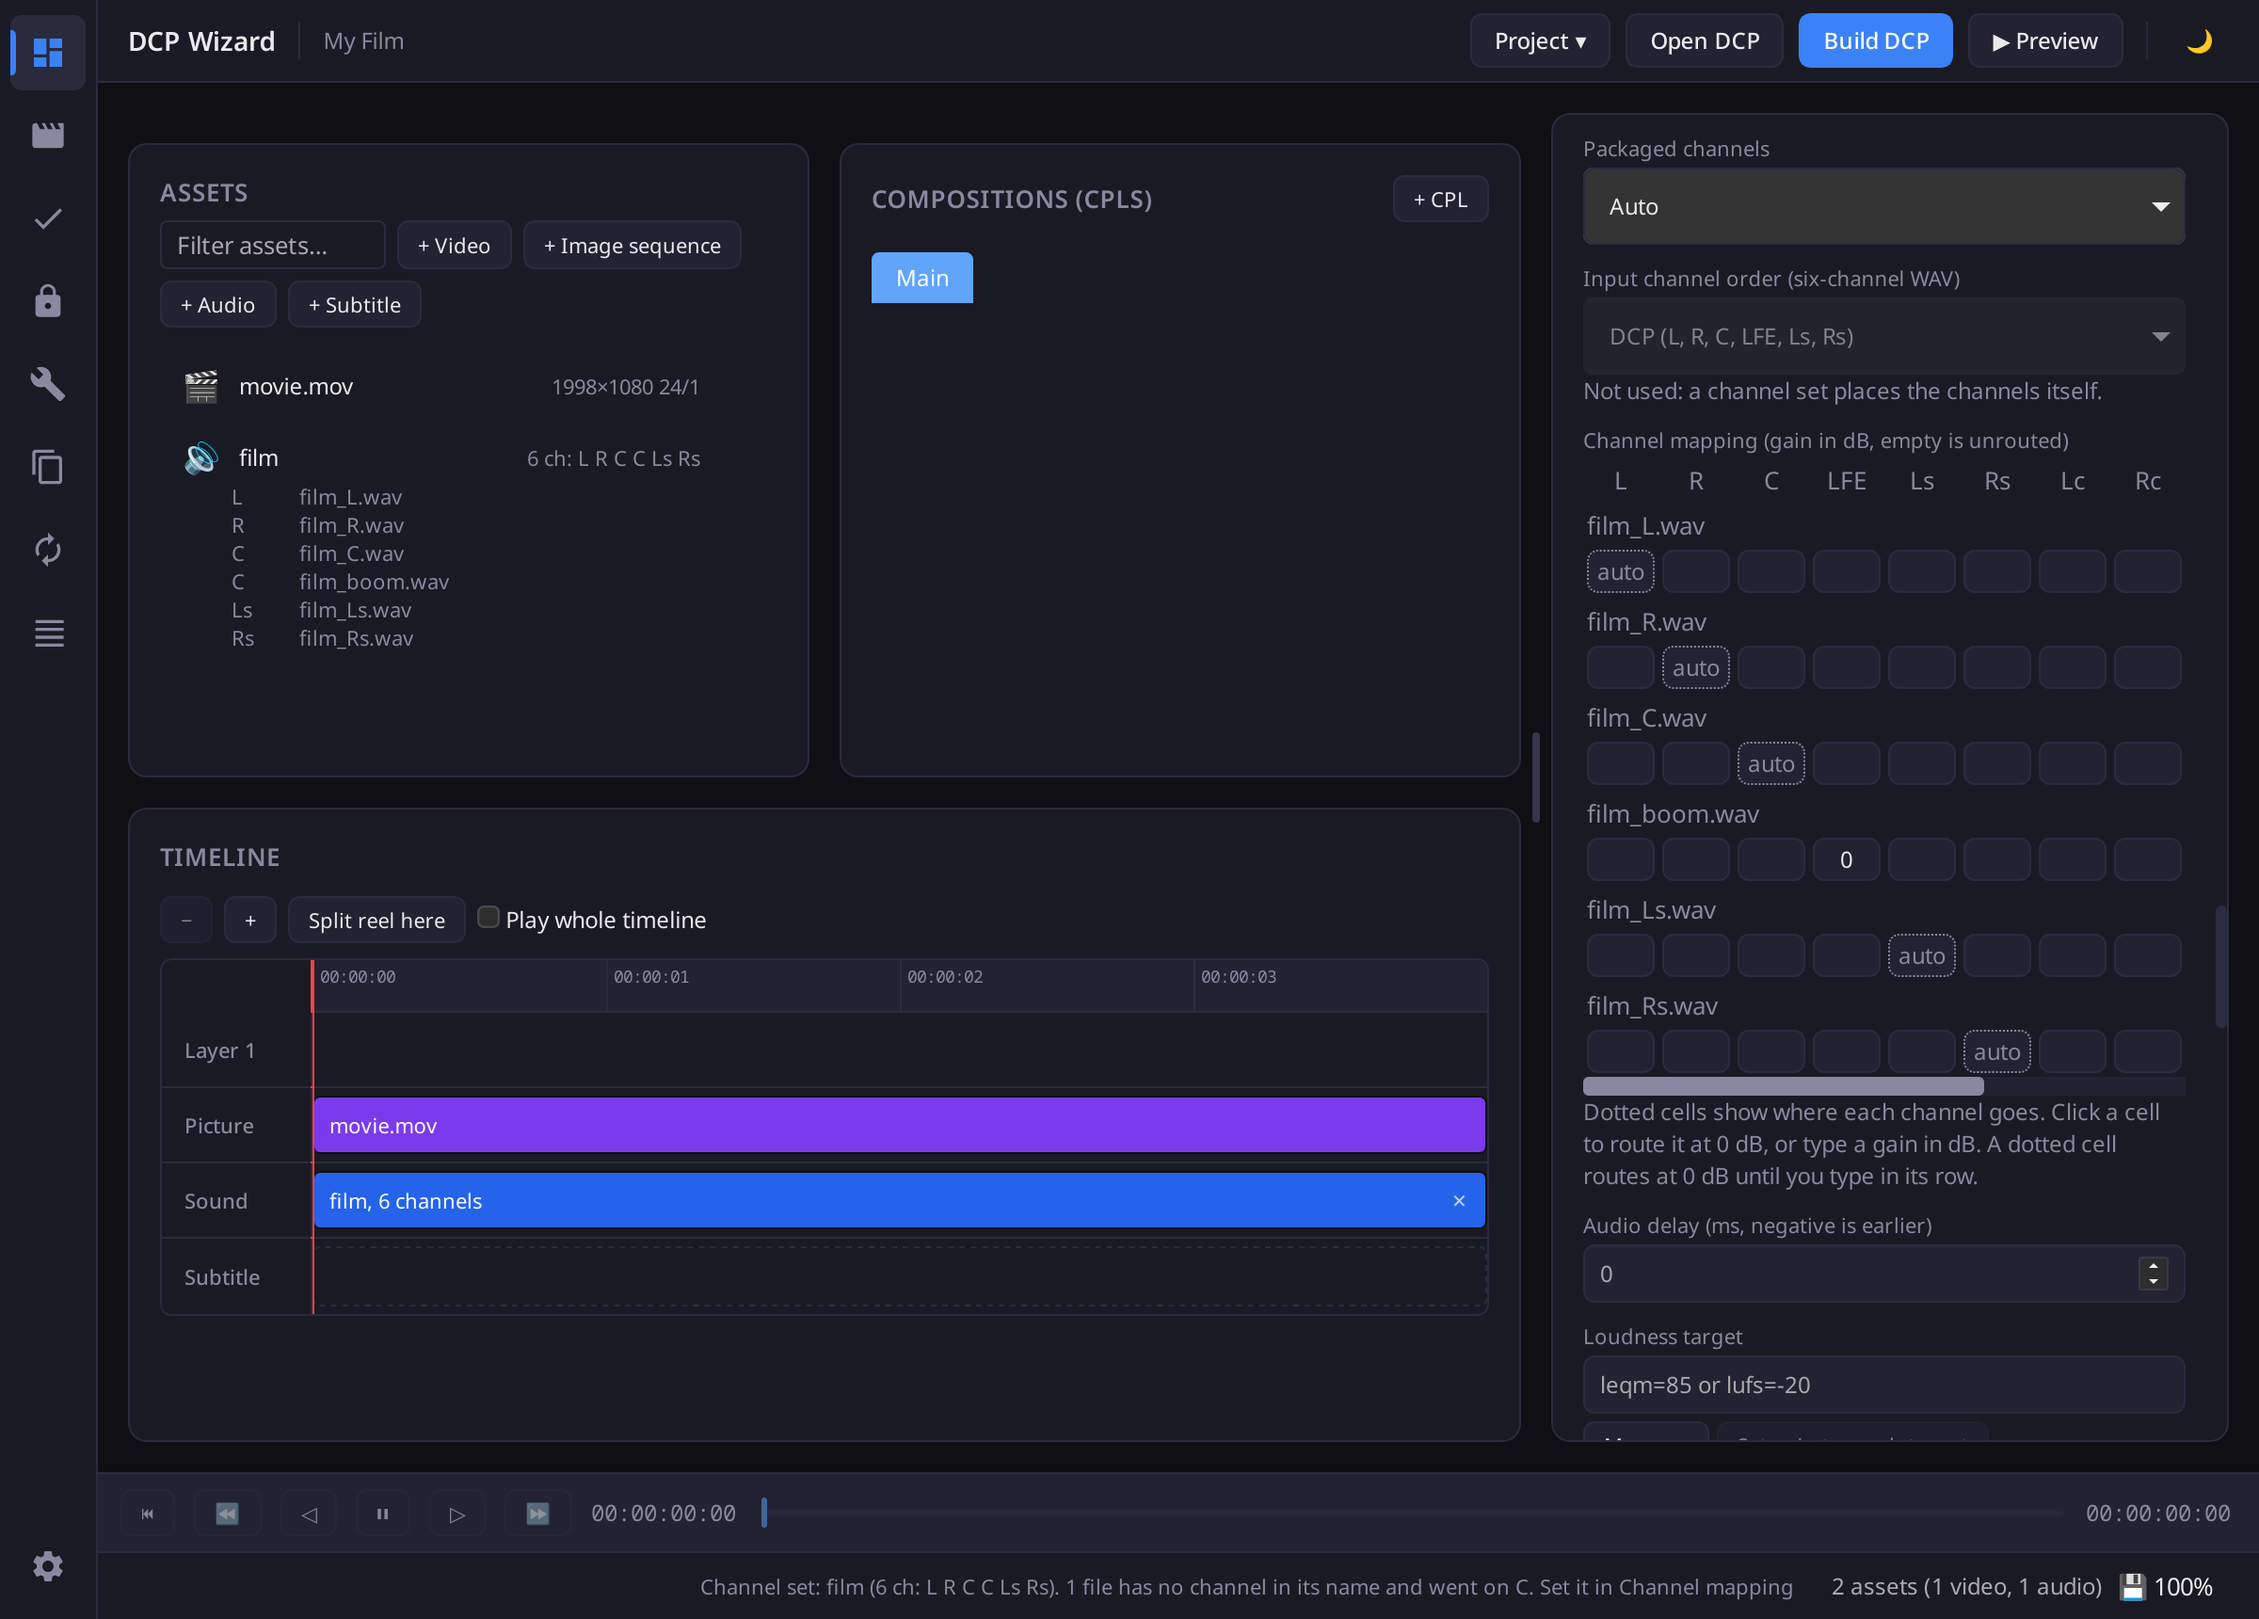
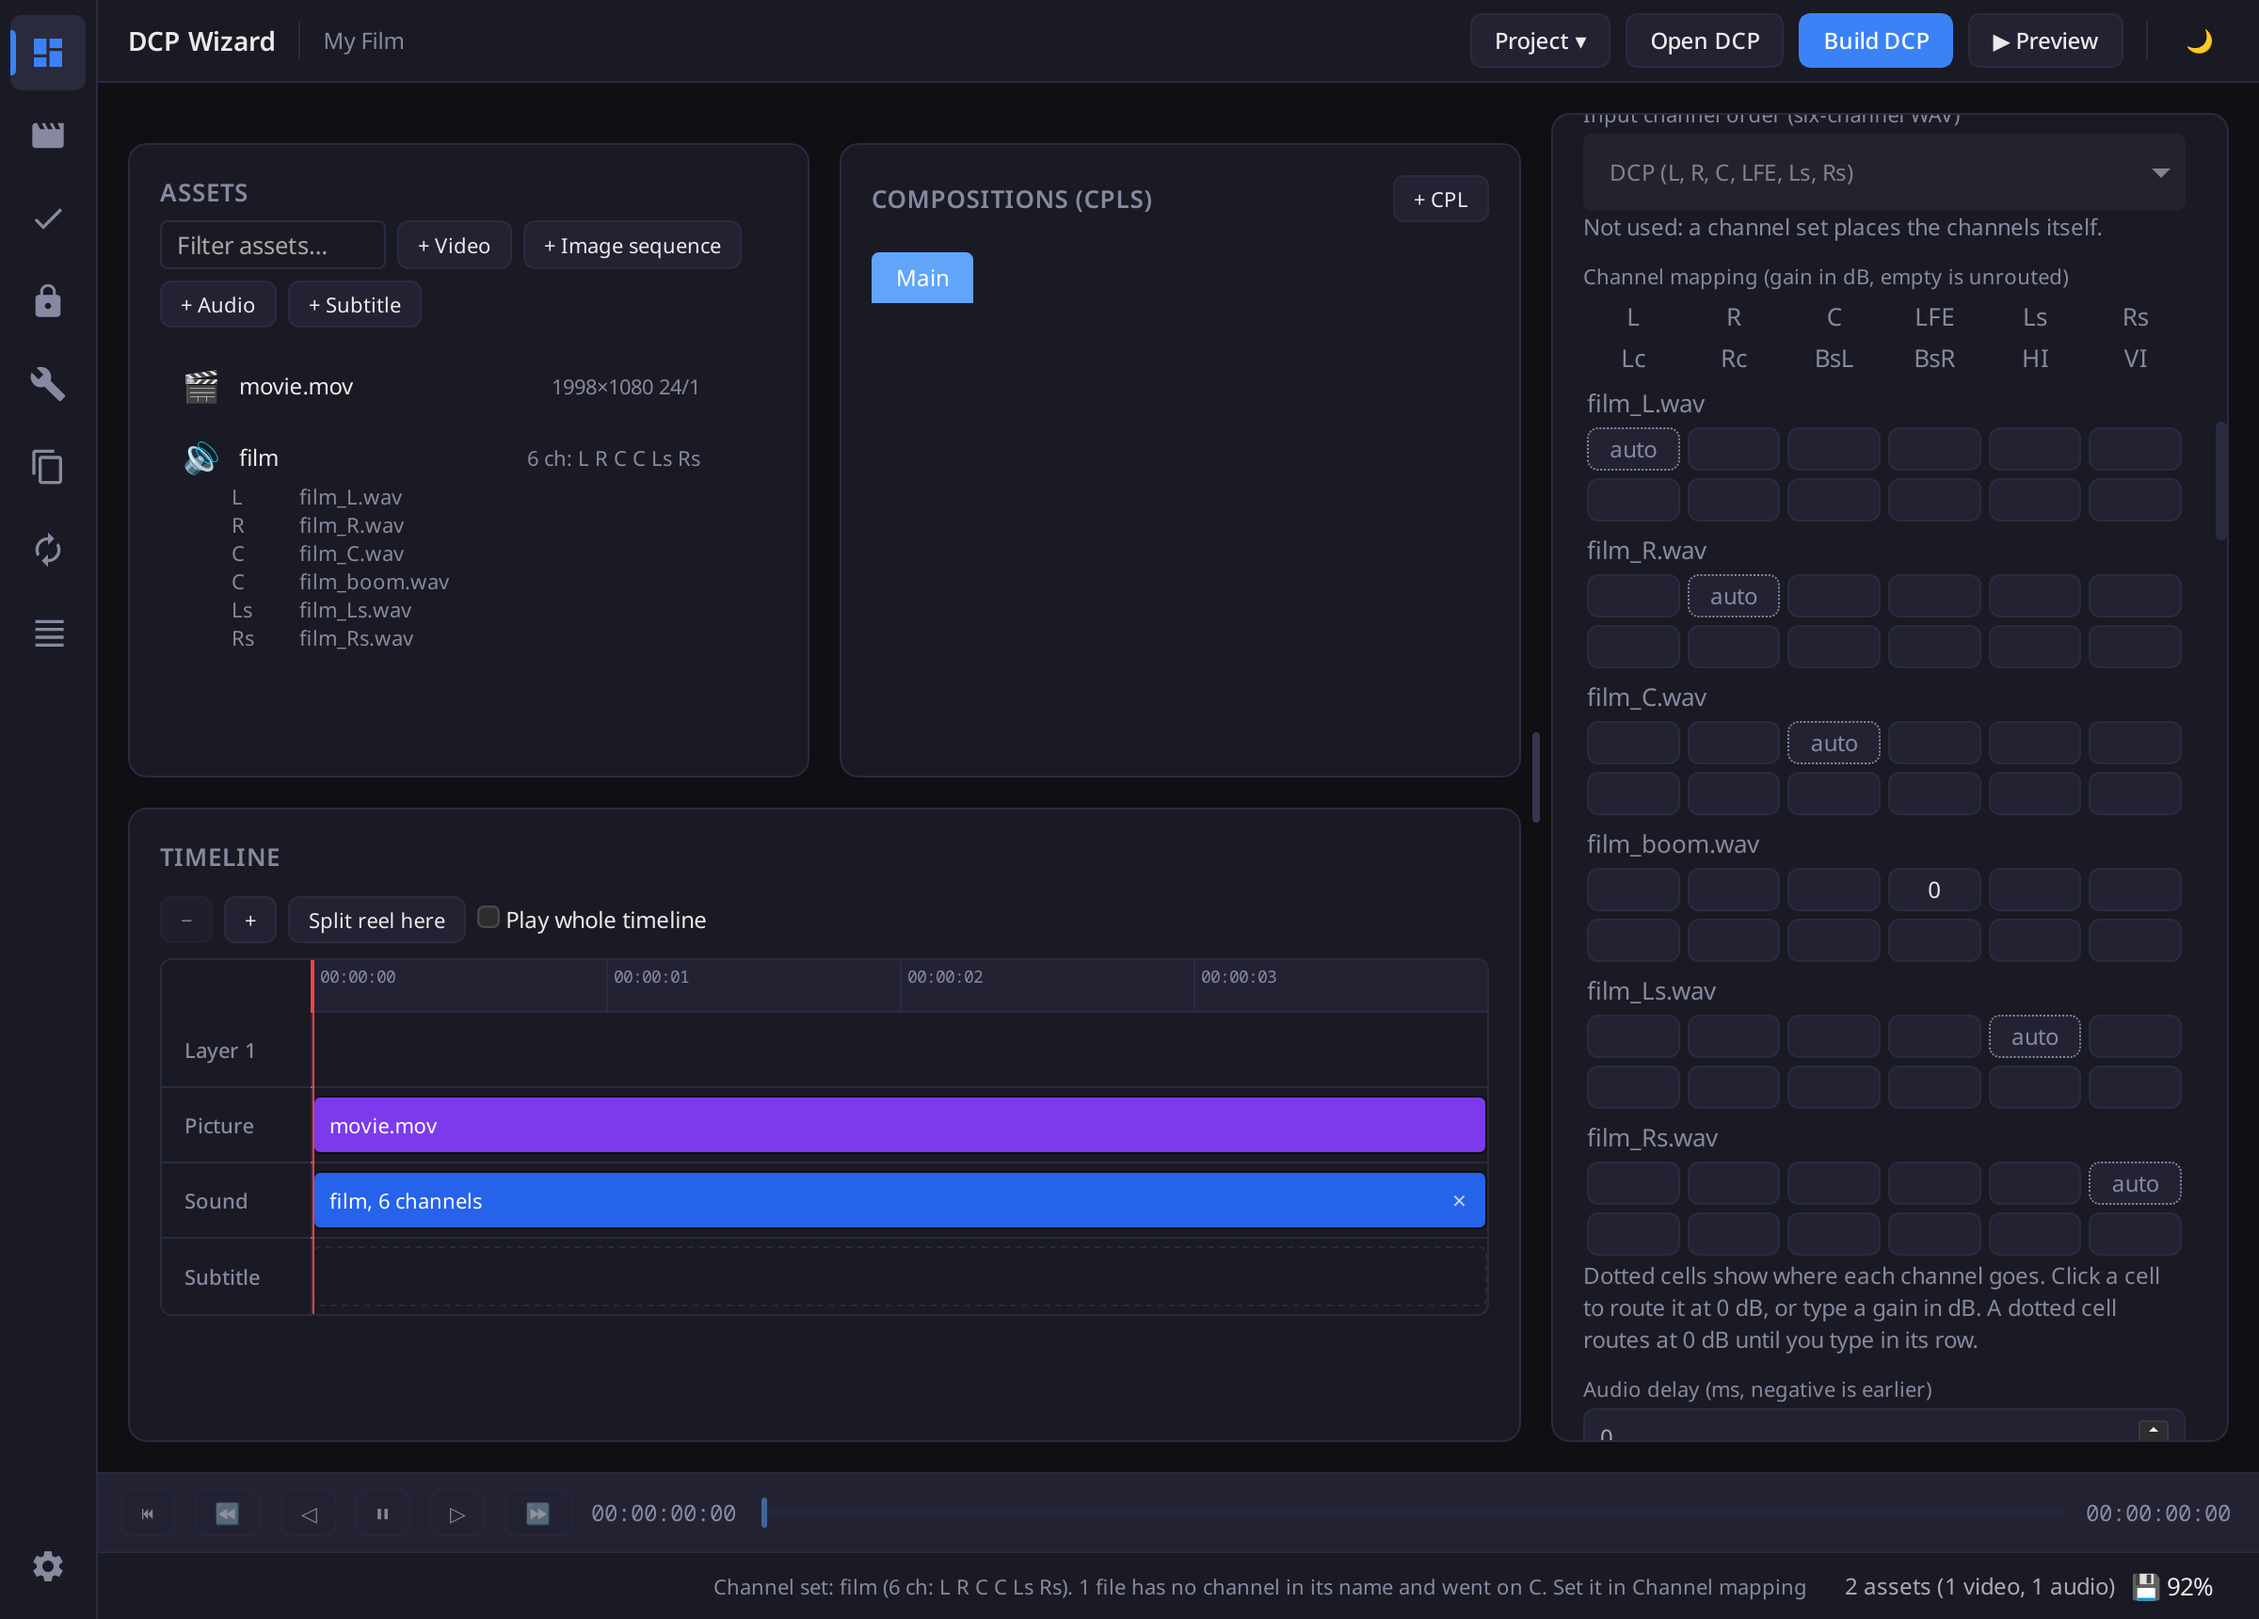
manual: auto cells and the two-line grid

diff --git a/docs/manual.html b/docs/manual.html
@@ -247,7 +247,7 @@
     <p>The files are joined only if the rest of the name is the same, <code>film</code> here. A file named only by its channel, such as <code>FL.wav</code> or <code>LFE.wav</code>, also counts, and those files join into one sound named after their folder.</p>
     <p>Any other ending, such as <code>film_SW.wav</code> or <code>reel_1.wav</code>, is not recognised. That file goes on C, and the status bar tells you. Leave it there and it is mixed into the centre channel. So <code>reel_1.wav</code> to <code>reel_6.wav</code> all start on C. Either rename them before importing, for example to <code>reel_L.wav</code>, <code>reel_R.wav</code> and so on, or move each one in the grid as below.</p>
     <h3 id="mapping">Choose each file's channel</h3>
-    <p>Channel mapping is a grid in Properties. Scroll Properties down to the Audio group, after Source Picture. Each row is one of your files, named on the left, or one channel of a multichannel WAV. Each column is a channel of the DCP, labelled L, R, C, LFE, Ls, Rs and so on, and the columns from Lc to VI sit on a second line under each row. A dotted cell shows where a row goes now.</p>
+    <p>Channel mapping is a grid in Properties. Scroll Properties down to the Audio group, after Source Picture. Each row is one of your files, named on the left, or one channel of a multichannel WAV. Each column is a channel of the DCP, labelled L, R, C, LFE, Ls, Rs and so on, and the columns from Lc to VI sit on a second line under each row. A dotted cell shows where a row goes now. It reads auto. Leave a row empty to keep that route.</p>
     <ol>
         <li>Find the row of the file you want to move.</li>
         <li>Click the cell in the column it should go to. The cell shows 0, which means it goes there at full level. The dotted cell in that row goes plain, because the row now goes only where you clicked.</li>
